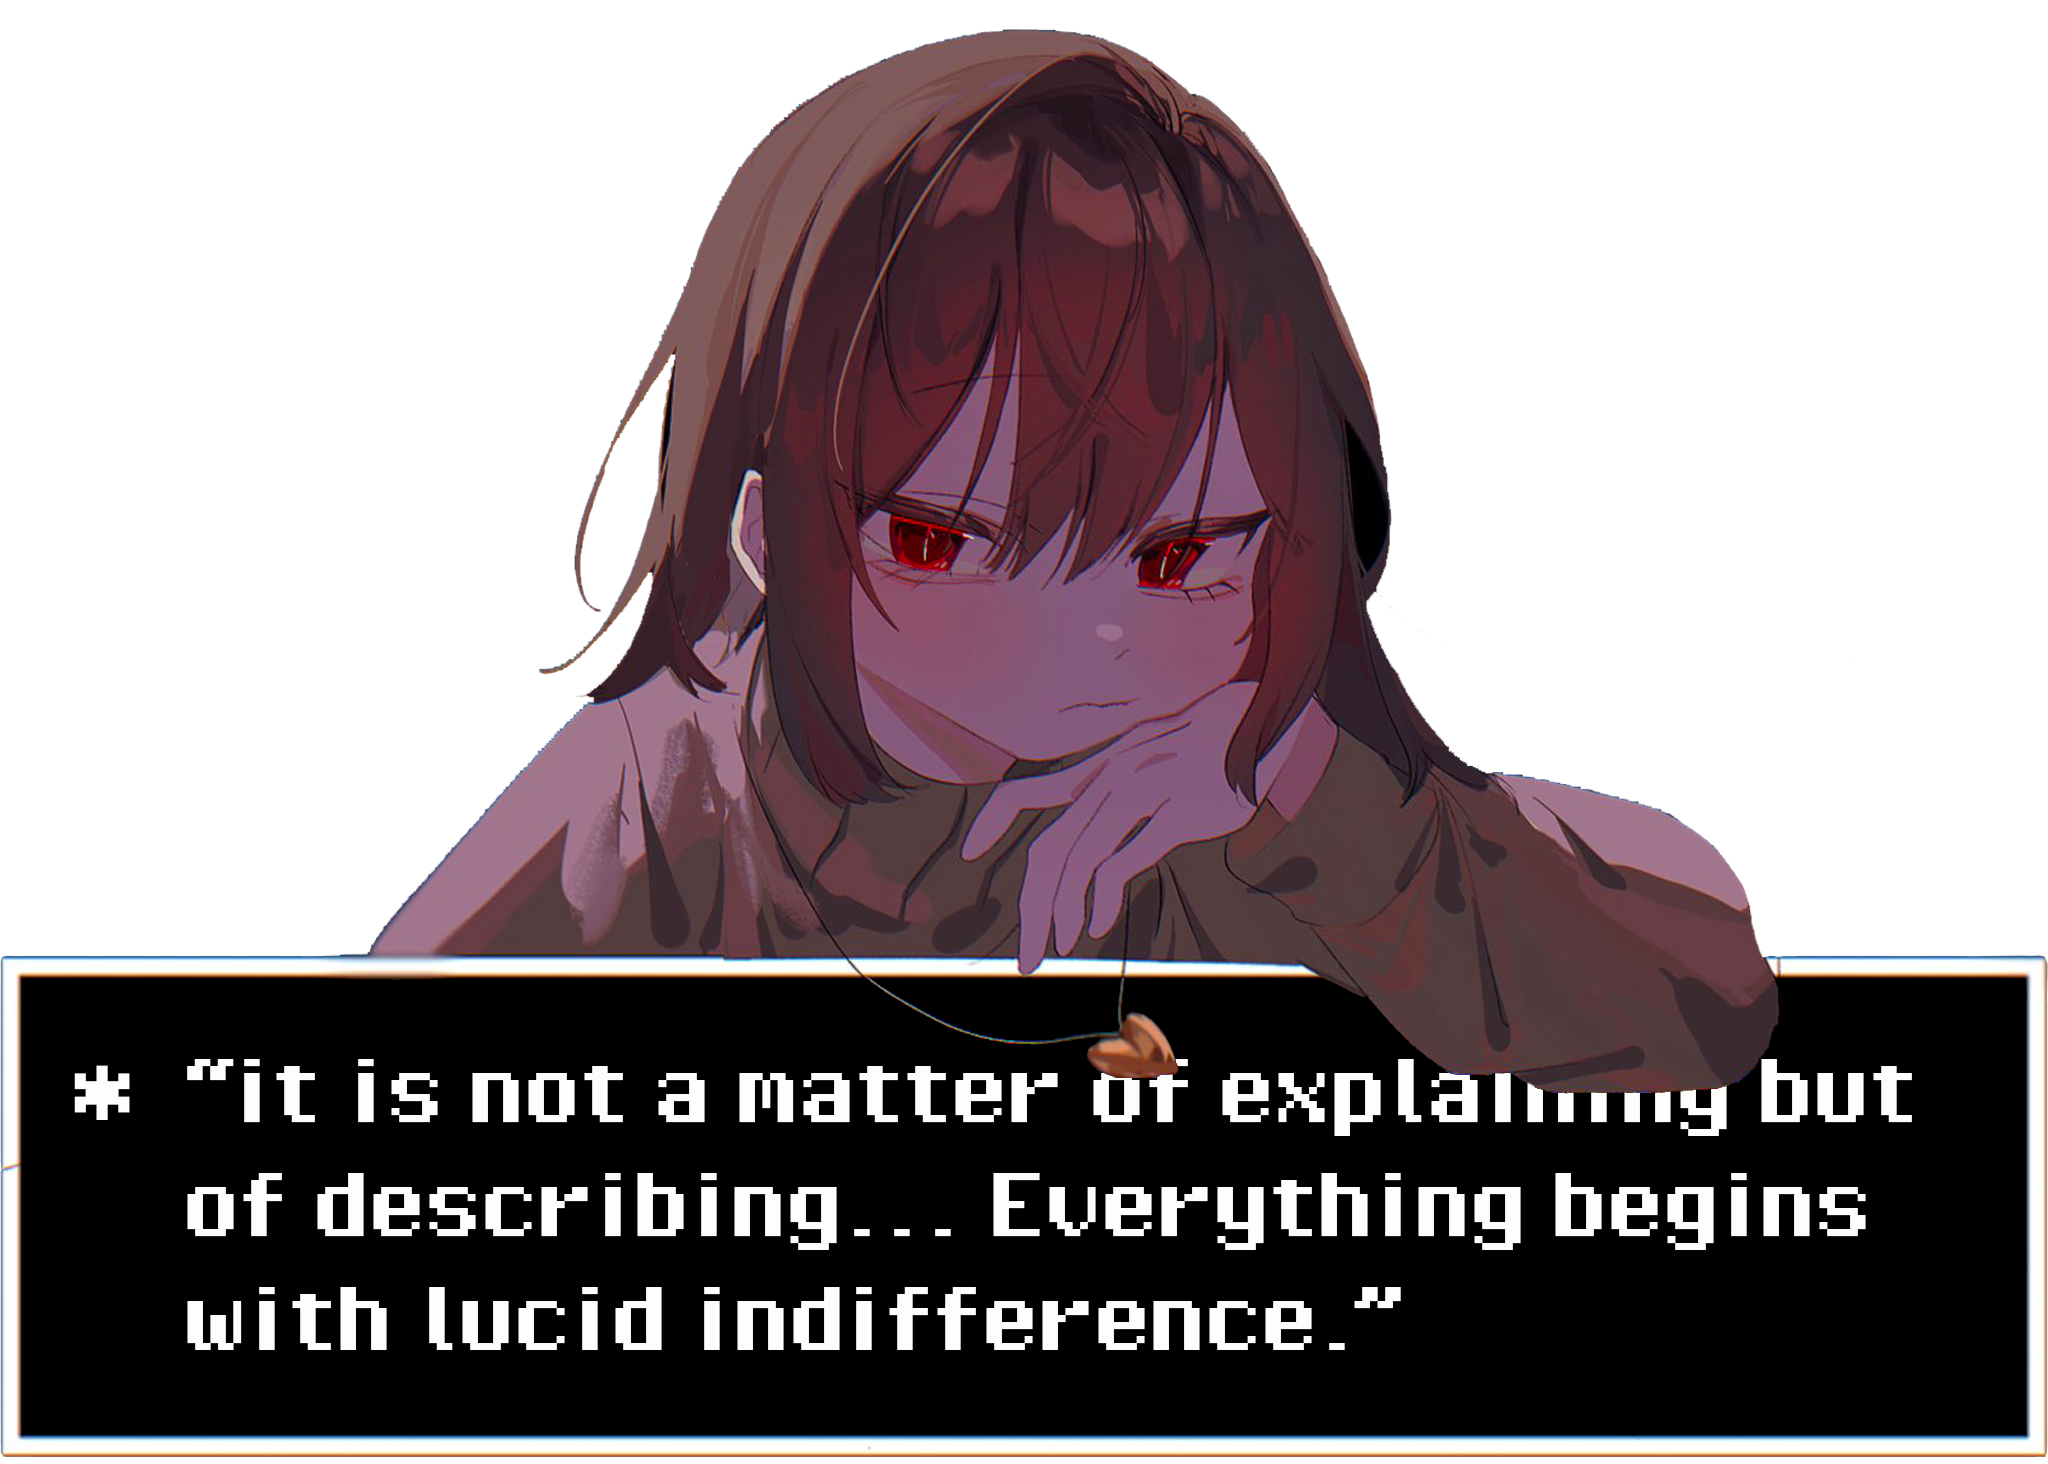
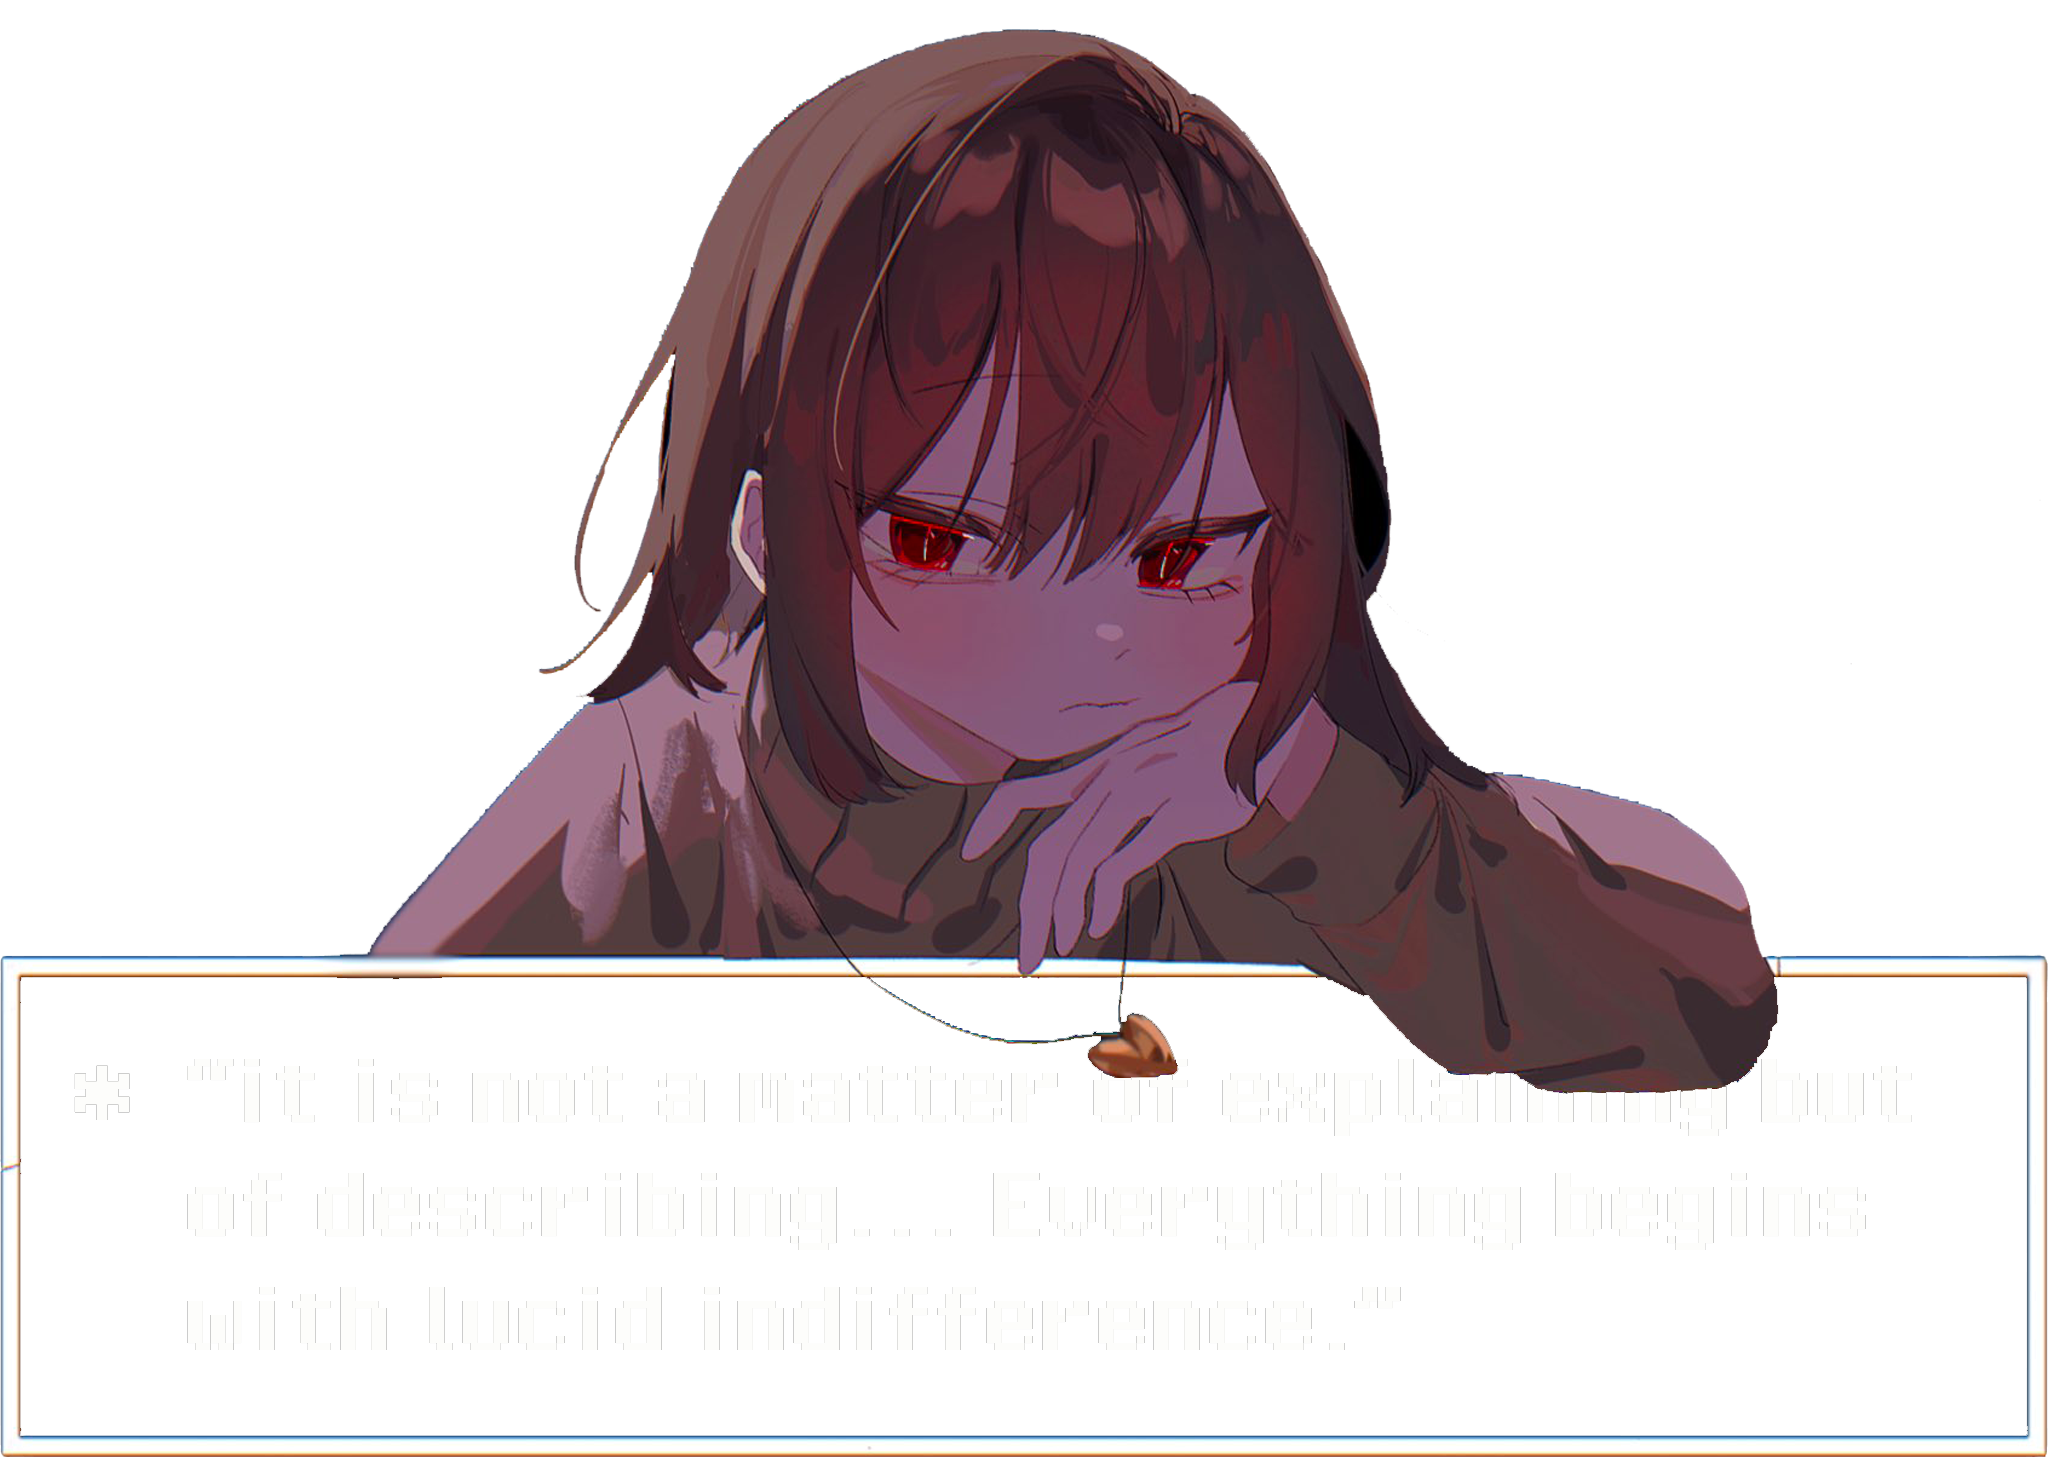
ligma

Changed region(s): [[0.0, 0.6455, 1.0, 0.9836]]

diff --git a/style.css b/style.css
@@ -47,7 +47,7 @@ body {
     max-width: 550px;
     border-radius: 0%; 
     opacity: 90%; /* was 90% */
-
+    backdrop-filter: blur(100px);
     box-shadow: 12px 12px 12px #000000
     inset, -10px -10px -10px #ffffff;
     
@@ -79,7 +79,7 @@ html, body {
 
     min-height: 100%;
     height: auto;
-    opacity: 15%;
+    opacity: 80%; /*was 15*/
     transform: translateY(-50) translateX(50);
 
 
@@ -89,7 +89,7 @@ html, body {
 
 .buttonbox {
   
-    opacity: 90%;
+    opacity: 100%;
     height: auto;
     width: auto;
     margin-left: 1%;
@@ -103,16 +103,23 @@ html, body {
 
     color: whitesmoke;
     border-color: whitesmoke;
-    background-color: #000000;
+    background-color: #00000000;
+
+
+
     padding: 10px;
-    
+    backdrop-filter: blur(100px);
     text-decoration: none;
     cursor: none;
+
+
 
     user-select: none;
     transition-duration: 0.1s;
 
     z-index: 3 ;
+
+    
 
 }
 
@@ -121,6 +128,8 @@ html, body {
 .buttonbox:hover {
     border-color: #fbeb50;
     color: #fbeb50;
+
+
     
 
 }
@@ -259,10 +268,10 @@ html, body {
   max-height: 20%;
   bottom: 2%; 
   right: 2%;
-  background-color: black;
+  background-color: rgba(0, 0, 0, 0);
   border-radius: 50%;
   z-index: 2;
-  
+  backdrop-filter: blur(50px);
 
 }
 
@@ -272,10 +281,11 @@ html, body {
   max-height: 20%;
   top: 2%; 
   left: 2%;
-  background-color: #000000;
+  background-color: #00000000;
   border-radius: 50%;
   z-index: 2;
   background-size: cover;
+  backdrop-filter: blur(50px);
 
 }
 

diff --git a/index.html b/index.html
@@ -48,7 +48,8 @@
 
 
 <p style="text-align: center; color: whitesmoke; position: relative; user-select: none;">
-    ( This website is not a good stalking piece )
+    ( This website is not a good stalking piece ) <br/>
+    (first created on 3rd january)
 </p>
 
 
@@ -60,7 +61,6 @@
 
 <p style="height: 20px;"></p>
 
-<hr class="pos">
 
 <script>
     function changePlaybackRate() {
@@ -87,9 +87,9 @@
 
 
 
-    <a href="" style="text-decoration: none;">
+    <a href="https://www.youtube.com/watch?v=v47zSNZcyPQ " target=_blank style="text-decoration: none;">
         <button onmouseover="document.getElementById('select_audio').play()" onmousedown="document.getElementById('select_audio').play()" class="buttonbox" style="min-width: 210px;">
-        third charlie
+        weasley crab
     </button>
     </a>
 
